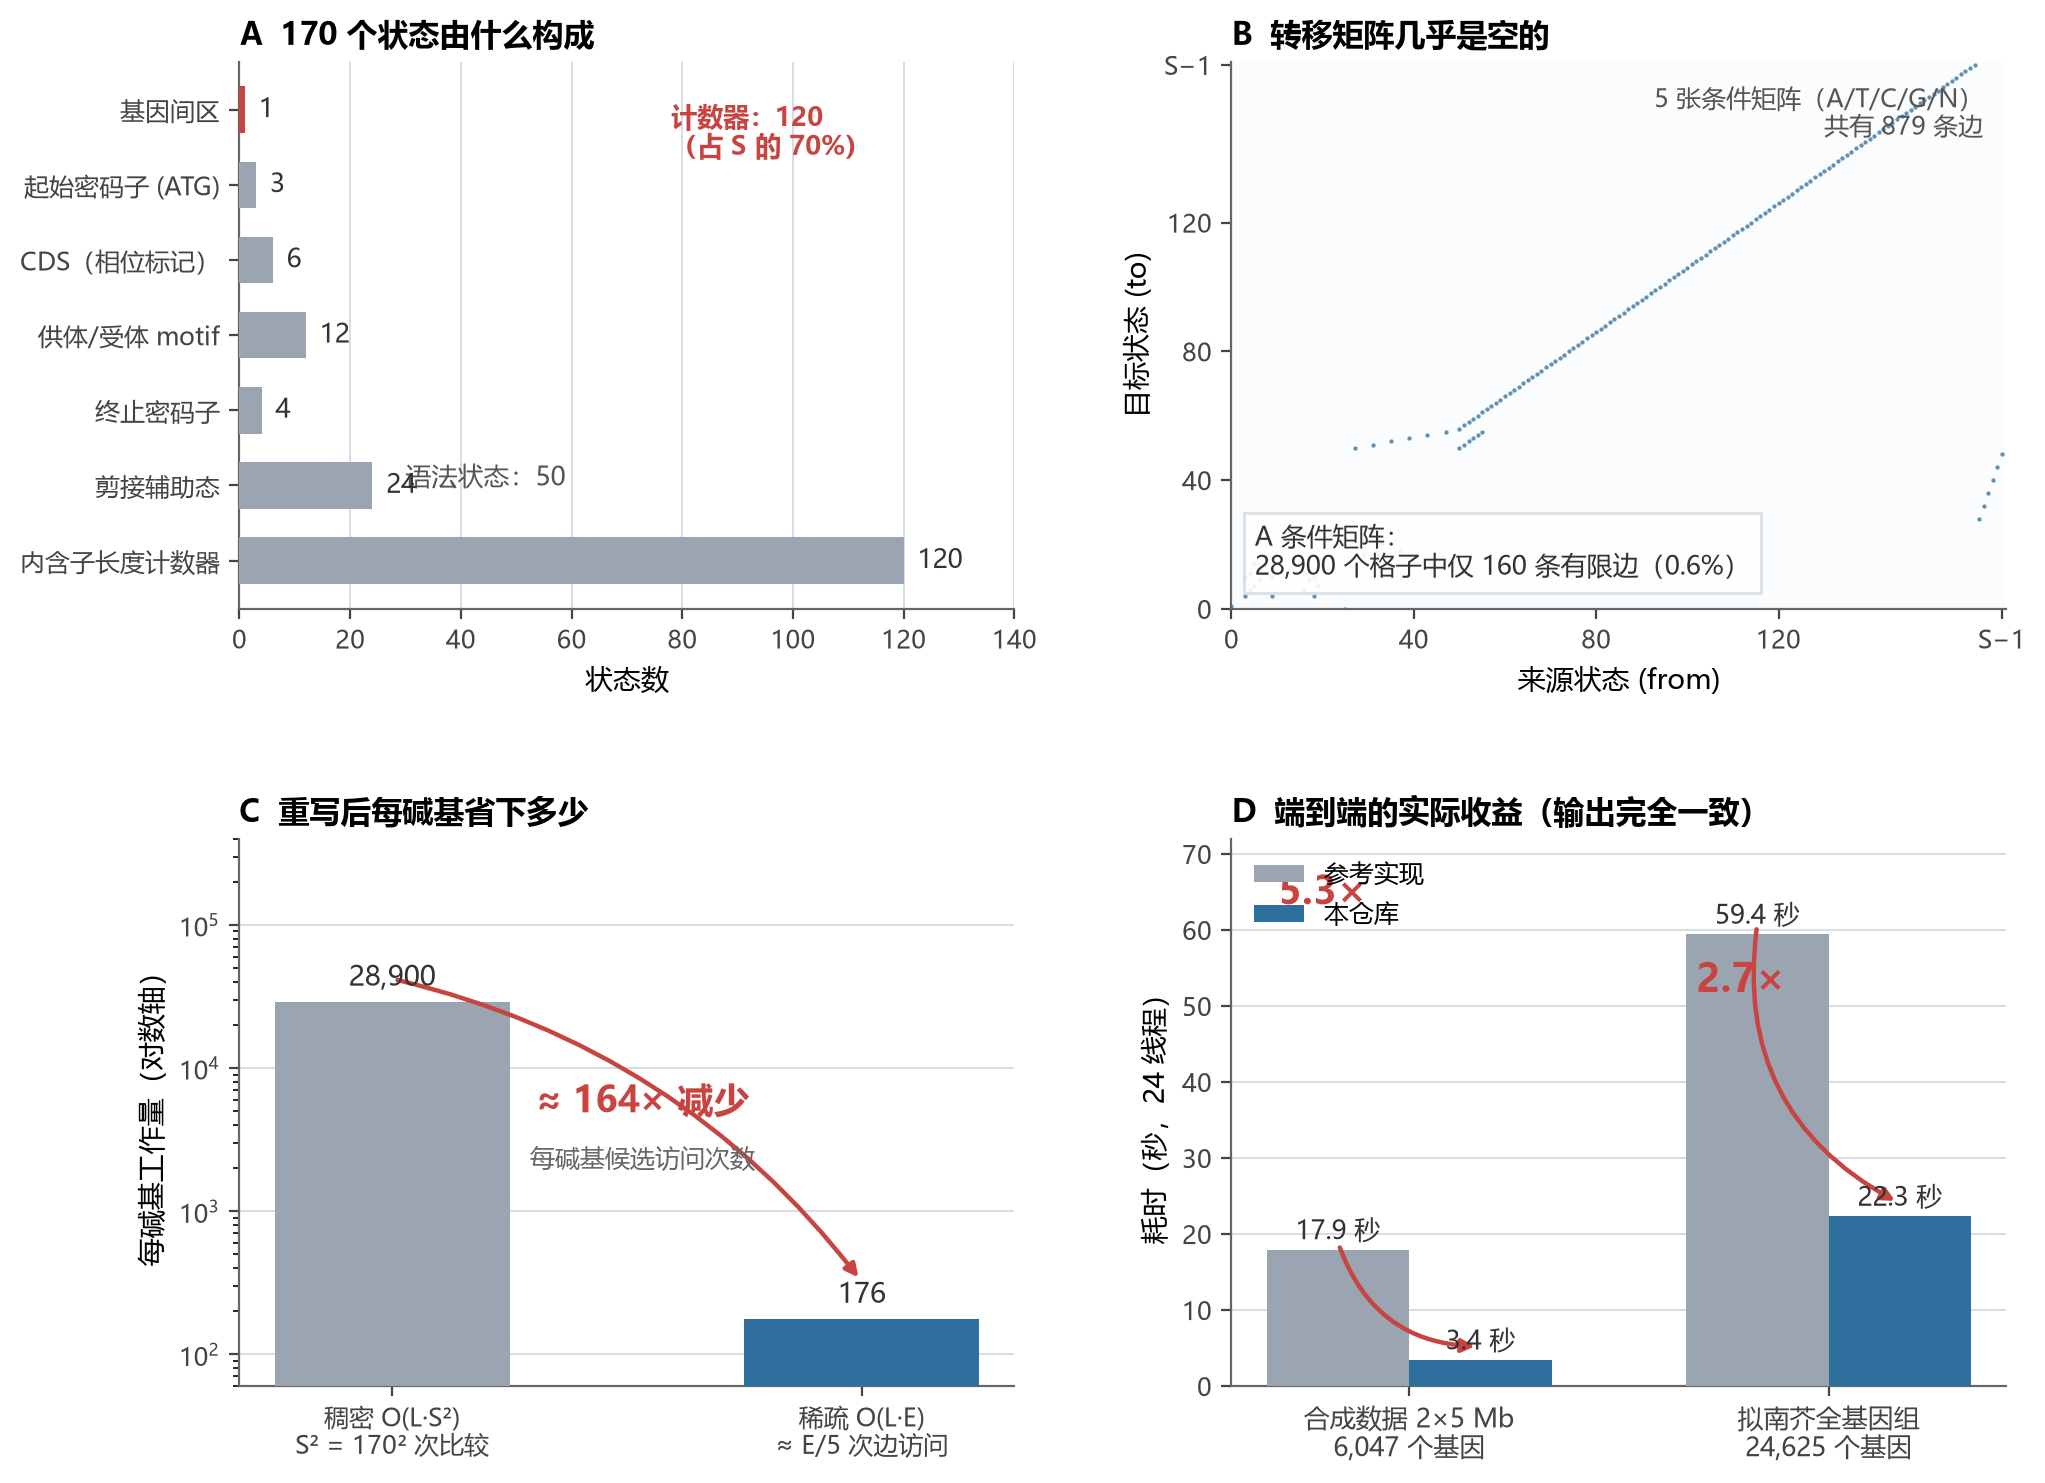
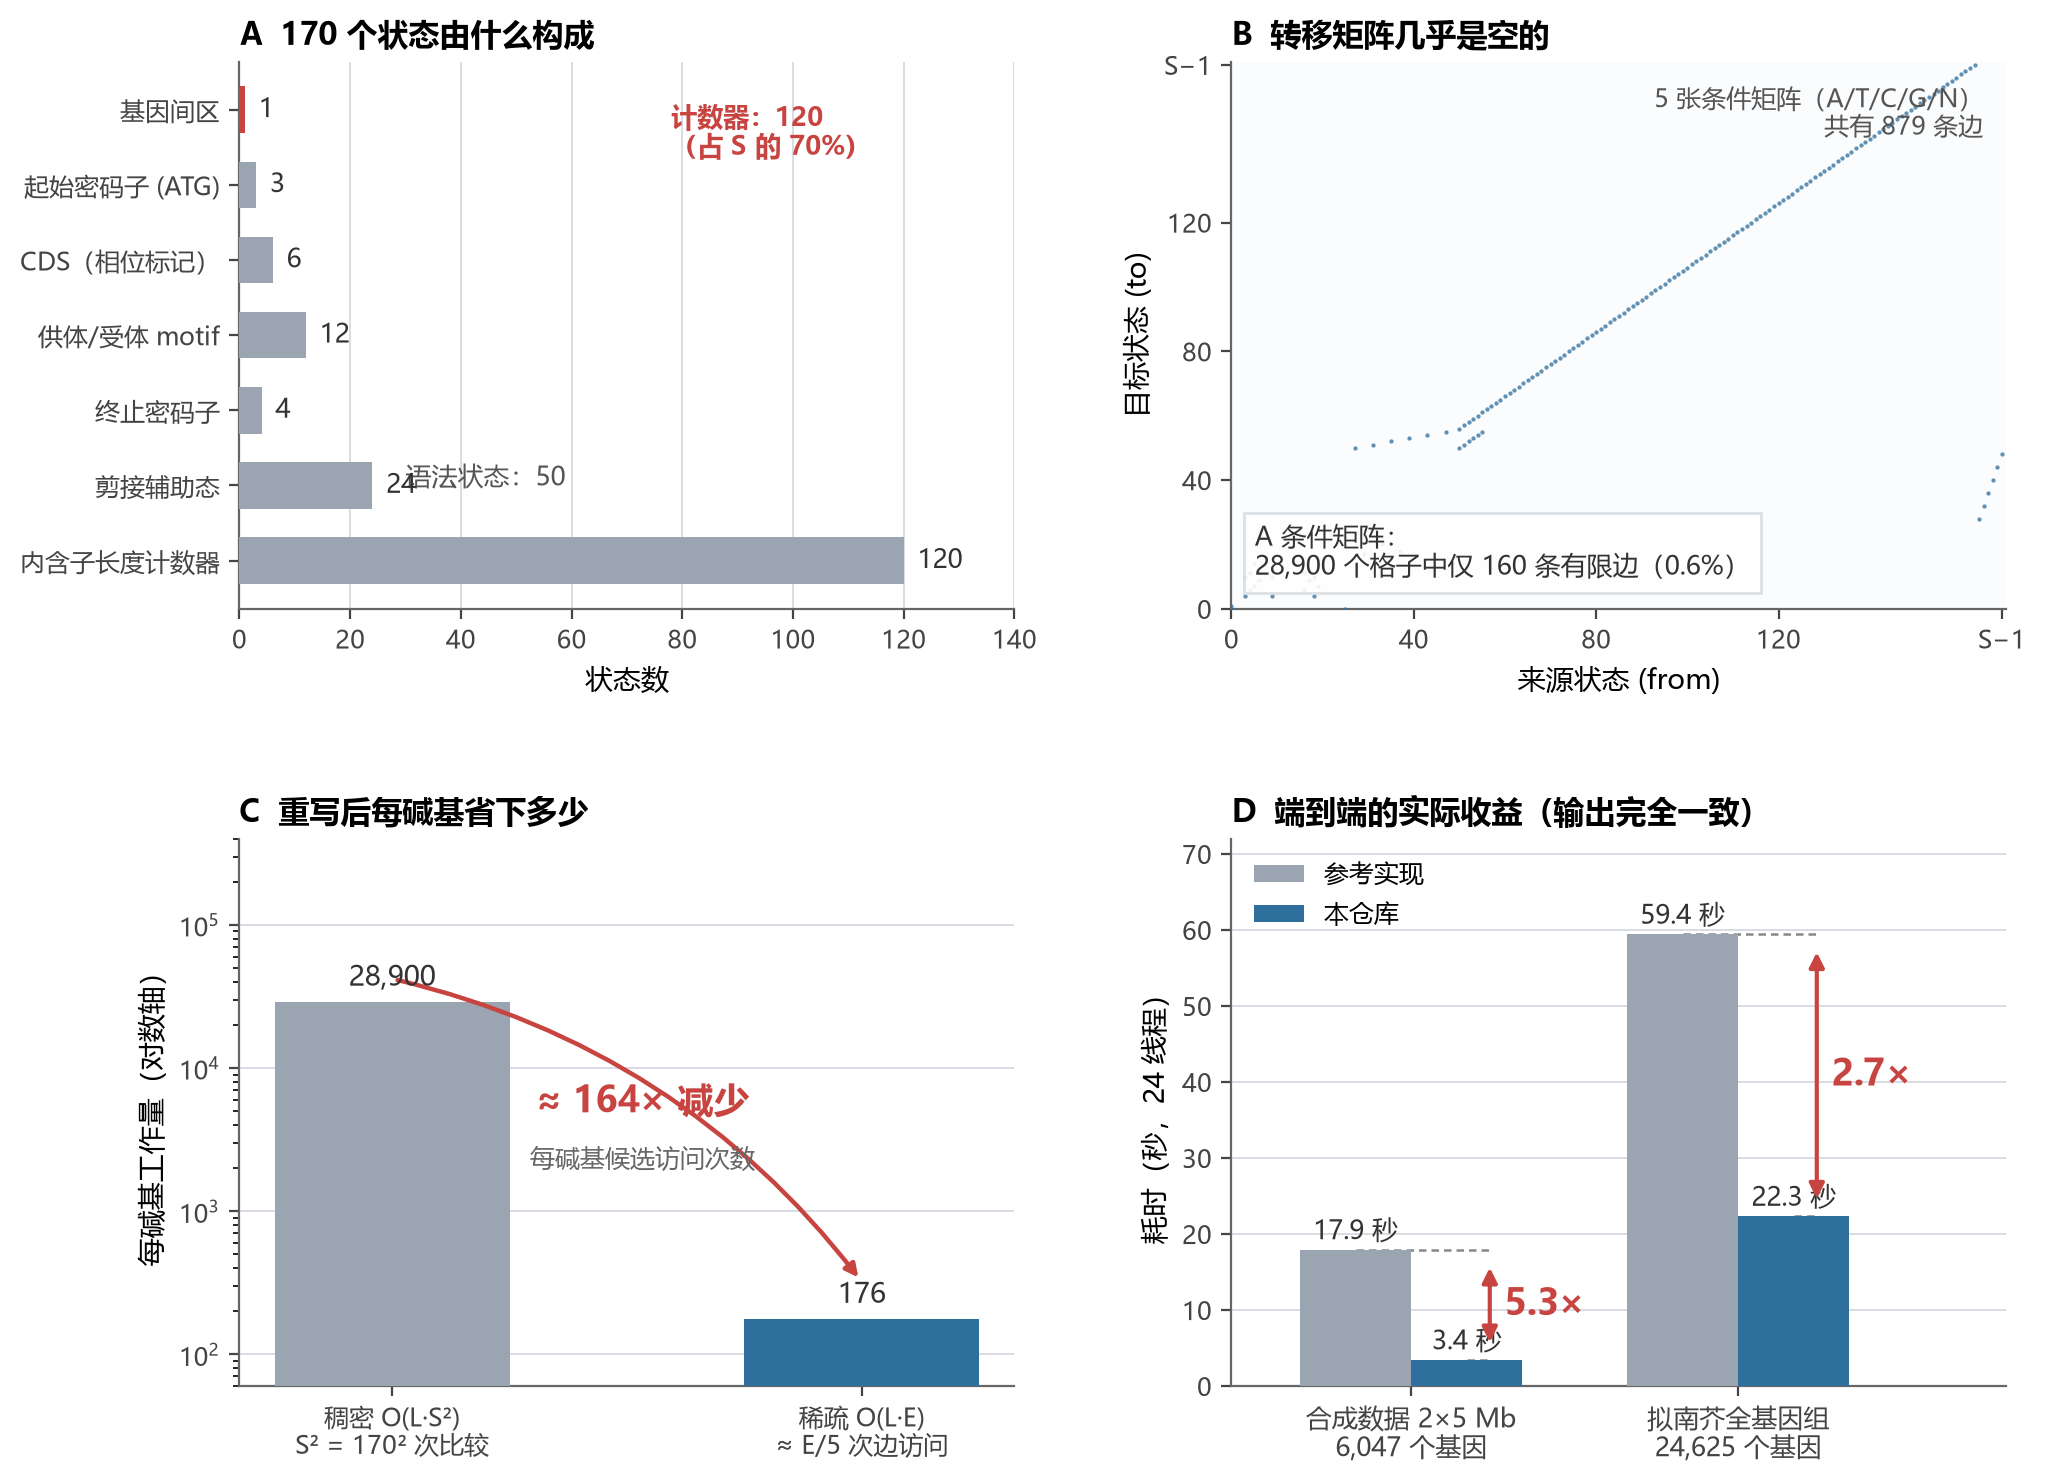
docs(figure): fix panel D — bracket-style speedup annotation (dashed guides + vertical arrow beside each pair) replacing overlapping arc arrows and floating labels

Changed region(s): [[0.6161, 0.5893, 0.9858, 0.9926], [0.6161, 0.5893, 0.6778, 0.6204], [0.6469, 0.8065, 0.6778, 0.8375]]

diff --git a/docs/assets/make_figures.py b/docs/assets/make_figures.py
@@ -160,21 +160,23 @@ for b, v in zip(b1, ref):
 for b, v in zip(b2, fast):
     ax.text(b.get_x() + b.get_width() / 2, v + 1.4, f"{v}s", ha="center",
             fontsize=9.5, color="#333", zorder=4)
-# 加速箭头
-ax.annotate("", xy=(0 + w / 2, 5.2), xytext=(0 - w / 2, 18.9),
-            arrowprops=dict(arrowstyle="-|>", color=C_HOT, lw=1.6,
-                            connectionstyle="arc3,rad=0.35"))
-ax.annotate("", xy=(1 + w / 2, 24), xytext=(1 - w / 2, 60.8),
-            arrowprops=dict(arrowstyle="-|>", color=C_HOT, lw=1.6,
-                            connectionstyle="arc3,rad=0.35"))
-ax.text(0.06, 0.88, "5.3×", transform=ax.transAxes, fontsize=14,
-        color=C_HOT, fontweight="bold")
-ax.text(0.60, 0.72, "2.7×", transform=ax.transAxes, fontsize=14,
-        color=C_HOT, fontweight="bold")
+# 括号式加速标注：两条虚线基准线 + 组右侧竖直双向箭头
+for xi, r, f, sp in ((0, 17.9, 3.4, "5.3×"), (1, 59.4, 22.3, "2.7×")):
+    xr = xi + w / 2 + 0.07          # 基准线右端 x
+    ax.hlines(r, xi - w / 2, xr, colors="#888", linestyles=(0, (3, 2)),
+              lw=0.9, zorder=2)
+    ax.hlines(f, xi + w / 2, xr, colors="#888", linestyles=(0, (3, 2)),
+              lw=0.9, zorder=2)
+    ax.annotate("", xy=(xr, f + 1.6), xytext=(xr, r - 1.6),
+                arrowprops=dict(arrowstyle="<|-|>", color=C_HOT, lw=1.5,
+                                mutation_scale=11), zorder=4)
+    ax.text(xr + 0.045, (r + f) / 2, sp, fontsize=13, color=C_HOT,
+            fontweight="bold", va="center", zorder=4)
 ax.set_xticks(x)
 ax.set_xticklabels(["synthetic 2×5 Mb\n6,047 genes", "A. thaliana genome\n24,625 genes"],
                    fontsize=9.5)
 ax.set_ylabel("wall time (s, 24 threads)")
+ax.set_xlim(-0.55, 1.82)
 ax.set_ylim(0, 72)
 ax.legend(frameon=False, loc="upper left")
 ax.set_title("D  What it buys end-to-end (output identical)", loc="left",

diff --git a/docs/assets/make_figures_zh.py b/docs/assets/make_figures_zh.py
@@ -143,20 +143,23 @@ for b, v in zip(b1, ref):
 for b, v in zip(b2, fast):
     ax.text(b.get_x() + b.get_width() / 2, v + 1.4, f"{v} 秒", ha="center",
             fontsize=9.5, color="#333", zorder=4)
-ax.annotate("", xy=(0 + w / 2, 5.2), xytext=(0 - w / 2, 18.9),
-            arrowprops=dict(arrowstyle="-|>", color=C_HOT, lw=1.6,
-                            connectionstyle="arc3,rad=0.35"))
-ax.annotate("", xy=(1 + w / 2, 24), xytext=(1 - w / 2, 60.8),
-            arrowprops=dict(arrowstyle="-|>", color=C_HOT, lw=1.6,
-                            connectionstyle="arc3,rad=0.35"))
-ax.text(0.06, 0.88, "5.3×", transform=ax.transAxes, fontsize=14,
-        color=C_HOT, fontweight="bold")
-ax.text(0.60, 0.72, "2.7×", transform=ax.transAxes, fontsize=14,
-        color=C_HOT, fontweight="bold")
+# 括号式加速标注
+for xi, r, f, sp in ((0, 17.9, 3.4, "5.3×"), (1, 59.4, 22.3, "2.7×")):
+    xr = xi + w / 2 + 0.07
+    ax.hlines(r, xi - w / 2, xr, colors="#888", linestyles=(0, (3, 2)),
+              lw=0.9, zorder=2)
+    ax.hlines(f, xi + w / 2, xr, colors="#888", linestyles=(0, (3, 2)),
+              lw=0.9, zorder=2)
+    ax.annotate("", xy=(xr, f + 1.6), xytext=(xr, r - 1.6),
+                arrowprops=dict(arrowstyle="<|-|>", color=C_HOT, lw=1.5,
+                                mutation_scale=11), zorder=4)
+    ax.text(xr + 0.045, (r + f) / 2, sp, fontsize=13, color=C_HOT,
+            fontweight="bold", va="center", zorder=4)
 ax.set_xticks(x)
 ax.set_xticklabels(["合成数据 2×5 Mb\n6,047 个基因", "拟南芥全基因组\n24,625 个基因"],
                    fontsize=9.5)
 ax.set_ylabel("耗时（秒，24 线程）")
+ax.set_xlim(-0.55, 1.82)
 ax.set_ylim(0, 72)
 ax.legend(frameon=False, loc="upper left")
 ax.set_title("D  端到端的实际收益（输出完全一致）", loc="left",
